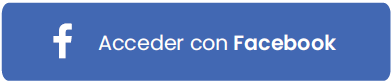
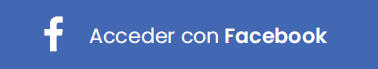
cambios grandes

Changed region(s): [[0.0, 0.0, 1.0, 1.0], [0.2328, 0.3768, 0.873, 0.6377], [0.1164, 0.2319, 0.2037, 0.7536]]

diff --git a/src/app/modal/modal.page.ts b/src/app/modal/modal.page.ts
@@ -1,0 +1,62 @@
+import { Component, OnInit } from '@angular/core';
+import { NavController, NavParams, ModalController, AlertController} from '@ionic/angular';
+import { AuthService } from 'src/app/auth/servicios/auth.service';
+@Component({
+  selector: 'app-modal',
+  templateUrl: './modal.page.html',
+  styleUrls: ['./modal.page.scss'],
+})
+export class ModalPage implements OnInit {
+  textInput = "";
+  constructor(public navCtrol: NavController, public navParams: NavParams,
+    public modalCtrl: ModalController,private alert: AlertController,private  authService:  AuthService,) { }
+
+  ngOnInit() {
+  }
+  dismiss() {
+    this.modalCtrl.dismiss();
+  }
+
+  enviar(){
+    console.log(typeof(this.textInput))
+    if(this.validarEmail(this.textInput)){
+      console.log(this.textInput)
+      this.authService.enviarCorreo(this.textInput).subscribe(data=> {
+        if(data.valid == 'OK'){
+          this.modalCtrl.dismiss();
+        }else{
+          this.mensaje("Acceso Incorrecto","Algo salió mal","Su correo  están incorrectos");
+        }
+      })
+    }else{
+      this.mensaje("Correo","Correo incorrecto","esto no sigue la forma correcta de un correo")
+    }
+
+  }
+
+  validarEmail(valor){
+    var regex = /^([a-zA-Z0-9_\.\-])+\@(([a-zA-Z0-9\-])+\.)+([a-zA-Z0-9]{2,4})+$/;
+    return regex.test(valor) ? true : false;
+}
+ 
+async mensaje(titulo:string,subtitulo:string,mensaje:string) {
+  const alert = await this.alert.create({
+    cssClass: titulo,
+    header: titulo,
+    subHeader: subtitulo,
+    message: mensaje,
+    buttons: [
+      {
+        text: 'OK',
+        role: 'cancel',
+        handler: () => {
+        }
+      }
+    ]
+  });
+
+  await alert.present();
+}
+
+}
+

diff --git a/src/app/auth/login/login/login.page.ts b/src/app/auth/login/login/login.page.ts
@@ -2,7 +2,8 @@ import { Component, OnInit } from '@angular/core';
 import { Router } from  "@angular/router";
 import { AuthService } from '../../servicios/auth.service';
 import { LoadingController } from '@ionic/angular';
-import { AlertController, ToastController,Platform } from '@ionic/angular';
+import { AlertController, ToastController,Platform, ModalController } from '@ionic/angular';
+import {ModalPage} from './../../../modal/modal.page';
 /*import { AngularFireAuth } from '@angular/fire/auth';
 import { AngularFireAuthModule } from '@angular/fire/auth';
 
@@ -35,6 +36,7 @@ export class LoginPage implements OnInit {
     private alert: AlertController,
     private toast: ToastController,
     private platform: Platform,
+    public modalCtrl: ModalController,
     /*private afAuth: AngularFireAuth,
     private afAuth2: AngularFireAuthModule,
     private platform: Platform,
@@ -44,6 +46,15 @@ export class LoginPage implements OnInit {
   ngOnInit() {
   }
 
+  async contrasena(){
+    //let modal = this.modalCtrl.create(ModalPage);
+    const modal = await this.modalCtrl.create({
+      component: ModalPage,
+      cssClass: 'custom-modal'
+    });
+    return await modal.present();
+  }
+  
   verificar(form){
 	form = form.value
 	console.log(form)
@@ -172,8 +183,7 @@ async mensaje(titulo:string,subtitulo:string,mensaje:string) {
                  } else {
            this.type = "password";
          }
-       }
-
+       } 
   }
 
 

diff --git a/src/app/modal/modal.page.html b/src/app/modal/modal.page.html
@@ -1,0 +1,16 @@
+<ion-header >
+  <ion-toolbar style="--background: linear-gradient(to left top,var(--ion-color-naranja-oscuro),var(--ion-color-naranja-claro)) !important;">
+    <ion-title style = "color:white" >Recuperación de contraseña</ion-title>
+  </ion-toolbar>
+</ion-header>
+
+<ion-content padding text-center>
+  <div class = "contendor-mail">
+    <div class= "correo">Escriba su correo</div> 
+    <ion-input name="email" type="email" placeholder="your@email.com" [(ngModel)]="textInput"></ion-input>
+  </div>
+  <div class = "btn">
+  <div class = "confirmar" ><ion-button class = "btn_cnf" style="--background: linear-gradient(to left top,var(--ion-color-naranja-oscuro),var(--ion-color-naranja-claro)) !important;" (click)="enviar()" >Enviar</ion-button></div>
+  <div class = "cancelar" ><ion-button class = "btn_cnl" style="--background: linear-gradient(to left top,var(--ion-color-naranja-oscuro),var(--ion-color-naranja-claro)) !important;" (click)="dismiss()">Cancelar</ion-button></div>
+  </div>
+</ion-content>

diff --git a/src/app/producto/producto.page.html b/src/app/producto/producto.page.html
@@ -72,9 +72,9 @@
                                 <h6 class="nombre-producto" >{{productos.nombre}}</h6>
                             </div>
                             <div class="producto-carrito">
-                                <img src="../assets/img/agregar.png" width="10" height="10" class="btn-producto" id="mas">
+                                <img src="../assets/img/agregar.png" width="10" height="10" class="btn-producto" id="mas" (click)= agregar()>
                                 <input type="text" name="" id="" class="estilo-cantidad" value="1">
-                                <img src="../assets/img/restar.png" width="10" height="3" class="btn-producto" id="menos">
+                                <img src="../assets/img/restar.png" width="10" height="3" class="btn-producto" id="menos" (click)= quitar()>
                             </div>
                         </div>
                         <div class="contener-columna centrar">

diff --git a/src/app/auth/login/login/login.page.scss b/src/app/auth/login/login/login.page.scss
@@ -14,7 +14,7 @@ ion-toolbar{
 }
 ion-header{
     
-    border-style:none;
+    border-style:none !important;
     --background: white;
     /*border-bottom-left-radius: 200px;
     border-bottom-right-radius: 200px;
@@ -43,24 +43,24 @@ ion-button.inicio{
 }
 
 ion-button.button-fb{
-    --background: white;
-    border-style: none;
+    --background: #4e71ba!important;
+    border-style: none !important;
 }
 
 .button-fb > img {
     width: 100%;
 }
-
+/*
 .logo{
-    /*text-align: center;
+    text-align: center;
     padding: 70px;
-    width: 300%;*/
+    width: 300%;
     //text-align: center;
     //padding: 5% 0% 0% 0%;
     //margin: auto;
     
 
-}
+}*/
 
 .logo2{
     text-align: center;
@@ -135,7 +135,8 @@ ion-button.button-fb{
 div.ion-text-center{
     padding: 0px 37px 0px 37px;
     margin: 0 auto;
-    --background:white;
+    //--background:white !important; 
+    width:100%;
 }
 .fuente-colores{
     padding: 60px 0px 60px 0px;

diff --git a/src/app/app.module.ts b/src/app/app.module.ts
@@ -23,11 +23,12 @@ import { AngularFireModule } from "@angular/fire";            //Modulo para inic
 import { firebaseConfig} from "../environments/environment";     // aqui se encuentra una variable de configuracion para inicializar firebase
 
 import { Facebook/*, FacebookLoginResponse*/ } from '@ionic-native/facebook/ngx'; //Modulo de Facebook
+import {ModalPage} from '././modal/modal.page';
 
 
 @NgModule({
-  declarations: [AppComponent],
-  entryComponents: [],
+  declarations: [AppComponent,ModalPage],
+  entryComponents: [ModalPage],
 
   imports: [BrowserModule,
     AngularFireModule.initializeApp(firebaseConfig),
@@ -42,6 +43,6 @@ import { Facebook/*, FacebookLoginResponse*/ } from '@ionic-native/facebook/ngx'
     SplashScreen,
     { provide: RouteReuseStrategy, useClass: IonicRouteStrategy }
   ],
-  bootstrap: [AppComponent]
+  bootstrap: [AppComponent],
 })
 export class AppModule {}

diff --git a/src/app/auth/servicios/auth.service.ts b/src/app/auth/servicios/auth.service.ts
@@ -5,6 +5,7 @@ import { tap } from  'rxjs/operators';
 import { Observable, BehaviorSubject } from  'rxjs';
 import { User } from  './user';
 import { Auth } from  './auth';
+//import { Correo } from  './correo';
 import { AngularFirestore } from "@angular/fire/firestore";
 import { AngularFireAuth } from "@angular/fire/auth";
 import { Facebook, FacebookLoginResponse } from '@ionic-native/facebook/ngx';
@@ -55,4 +56,16 @@ export class AuthService {
     })
   }
 
+  enviarCorreo(correo:String){
+    const headers = {
+      'Accept': 'application/json, text/plain',
+      'Content-Type': 'application/json'
+    }
+
+    const body = JSON.stringify(correo);
+    console.log(body)
+    return this.httpClient.post(`${this.AUTH_SERVER_ADDRESS}/cambioContra/`,body,{'headers':headers})
+  }
+
 }
+  

diff --git a/src/app/auth/registro/registro-exitoso/registro-exitoso.page.spec.ts b/src/app/auth/registro/registro-exitoso/registro-exitoso.page.spec.ts
@@ -1,0 +1,24 @@
+import { async, ComponentFixture, TestBed } from '@angular/core/testing';
+import { IonicModule } from '@ionic/angular';
+
+import { RegistroExitosoPage } from './registro-exitoso.page';
+
+describe('RegistroExitosoPage', () => {
+  let component: RegistroExitosoPage;
+  let fixture: ComponentFixture<RegistroExitosoPage>;
+
+  beforeEach(async(() => {
+    TestBed.configureTestingModule({
+      declarations: [ RegistroExitosoPage ],
+      imports: [IonicModule.forRoot()]
+    }).compileComponents();
+
+    fixture = TestBed.createComponent(RegistroExitosoPage);
+    component = fixture.componentInstance;
+    fixture.detectChanges();
+  }));
+
+  it('should create', () => {
+    expect(component).toBeTruthy();
+  });
+});

diff --git a/src/app/auth/login/login/login.page.html b/src/app/auth/login/login/login.page.html
@@ -123,8 +123,9 @@
               <ion-icon class="icono-input" text-right  id="iconIntro" [name]="passwordToggleIcon" style="zoom:2.0;"></ion-icon>
             </button>
           </ion-item>
-          <!--<a routerLink='/register'>¿Olvidaste tu contraseña?</a>-->
-          <p class=ion-text-right ion-text  tappable (click)="forgotPass()">
+          <!--<a routerLink='/register'>¿Olvidaste tu contraseña?</a>
+          <p class=ion-text-right ion-text  tappable (click)="forgotPass()">-->
+            <p class=ion-text-right ion-text  tappable (click)="contrasena()">
           <ion-label style="color: var(--ion-color-naranja-oscuro);">¿Olvidaste tu contraseña?</ion-label>
       </p><br>
       </ion-col>

diff --git a/src/app/shopping-cart/shopping-cart.page.ts b/src/app/shopping-cart/shopping-cart.page.ts
@@ -1,5 +1,6 @@
 import { Component, OnInit } from '@angular/core';
 import { ModalController } from '@ionic/angular';
+import { Router } from  "@angular/router";
 
 @Component({
   selector: 'app-shopping-cart',
@@ -11,7 +12,7 @@ export class ShoppingCartPage implements OnInit {
 
 
 //constructor(private productCartService: ProductsCartService, private modalCtrl: ModalController) { }
-constructor(){}
+constructor(private modalCtrl: ModalController,  private  router:  Router){}
 
   ngOnInit() {
 //    this.cart=this.productCartService.getCart();
@@ -35,6 +36,10 @@ constructor(){}
 
   checkout(){
 
+  }
+  regresar() {
+    this.modalCtrl.dismiss();
+    this.router.navigateByUrl('/producto');
   }
 
 

diff --git a/src/app/modal/modal.page.spec.ts b/src/app/modal/modal.page.spec.ts
@@ -1,0 +1,24 @@
+import { async, ComponentFixture, TestBed } from '@angular/core/testing';
+import { IonicModule } from '@ionic/angular';
+
+import { ModalPage } from './modal.page';
+
+describe('ModalPage', () => {
+  let component: ModalPage;
+  let fixture: ComponentFixture<ModalPage>;
+
+  beforeEach(async(() => {
+    TestBed.configureTestingModule({
+      declarations: [ ModalPage ],
+      imports: [IonicModule.forRoot()]
+    }).compileComponents();
+
+    fixture = TestBed.createComponent(ModalPage);
+    component = fixture.componentInstance;
+    fixture.detectChanges();
+  }));
+
+  it('should create', () => {
+    expect(component).toBeTruthy();
+  });
+});

diff --git a/src/app/auth/registro/registro-exitoso/registro-exitoso.module.ts b/src/app/auth/registro/registro-exitoso/registro-exitoso.module.ts
@@ -1,0 +1,20 @@
+import { NgModule } from '@angular/core';
+import { CommonModule } from '@angular/common';
+import { FormsModule } from '@angular/forms';
+
+import { IonicModule } from '@ionic/angular';
+
+import { RegistroExitosoPageRoutingModule } from './registro-exitoso-routing.module';
+
+import { RegistroExitosoPage } from './registro-exitoso.page';
+
+@NgModule({
+  imports: [
+    CommonModule,
+    FormsModule,
+    IonicModule,
+    RegistroExitosoPageRoutingModule
+  ],
+  declarations: [RegistroExitosoPage]
+})
+export class RegistroExitosoPageModule {}
